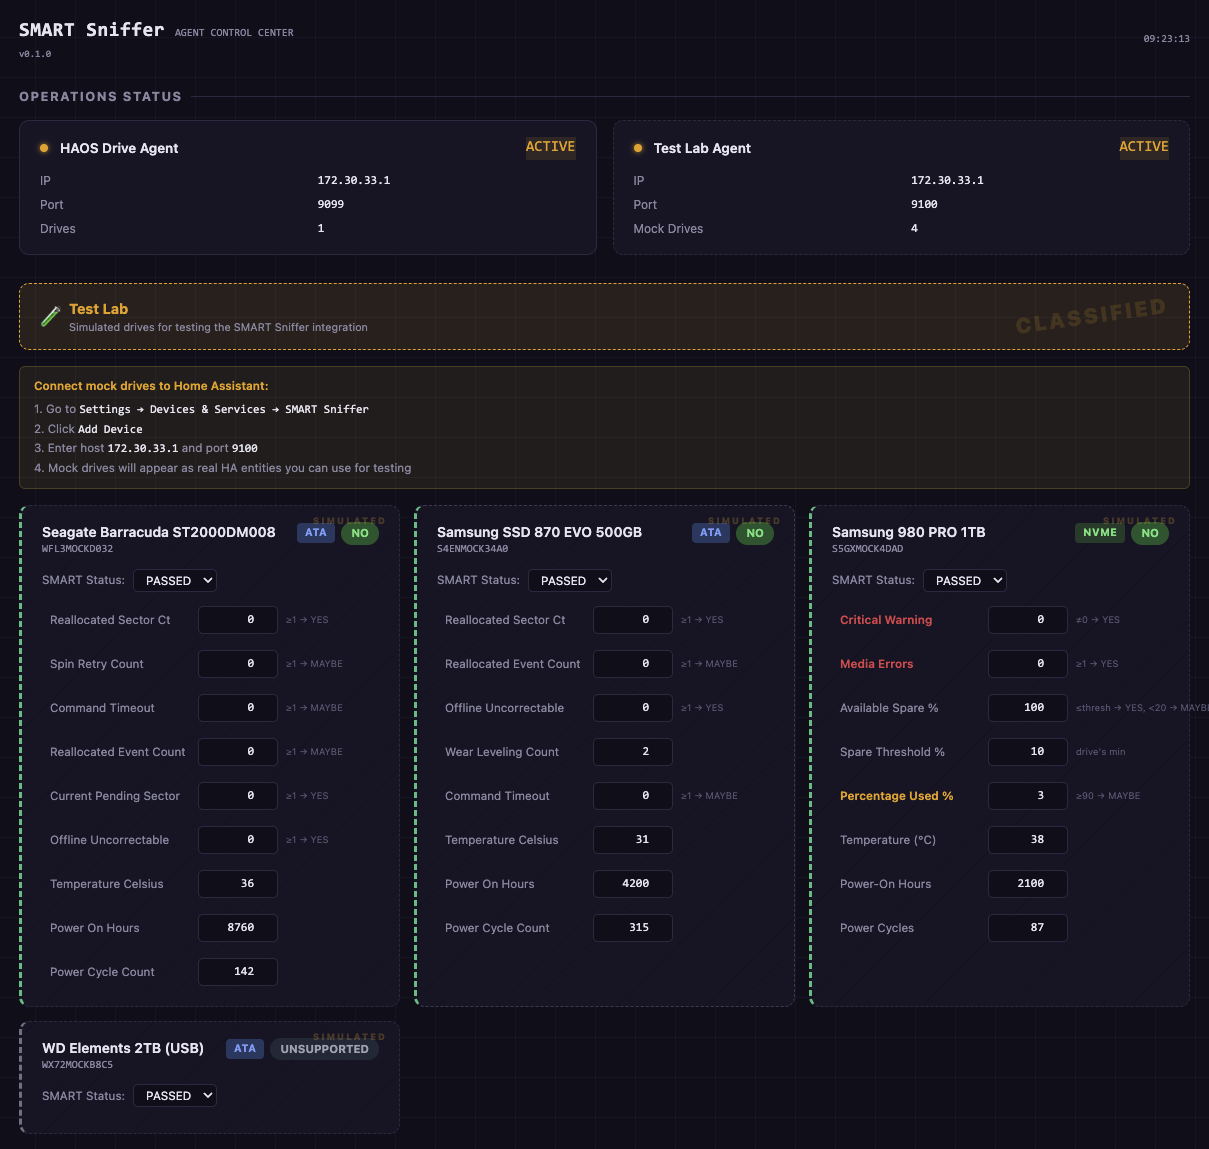
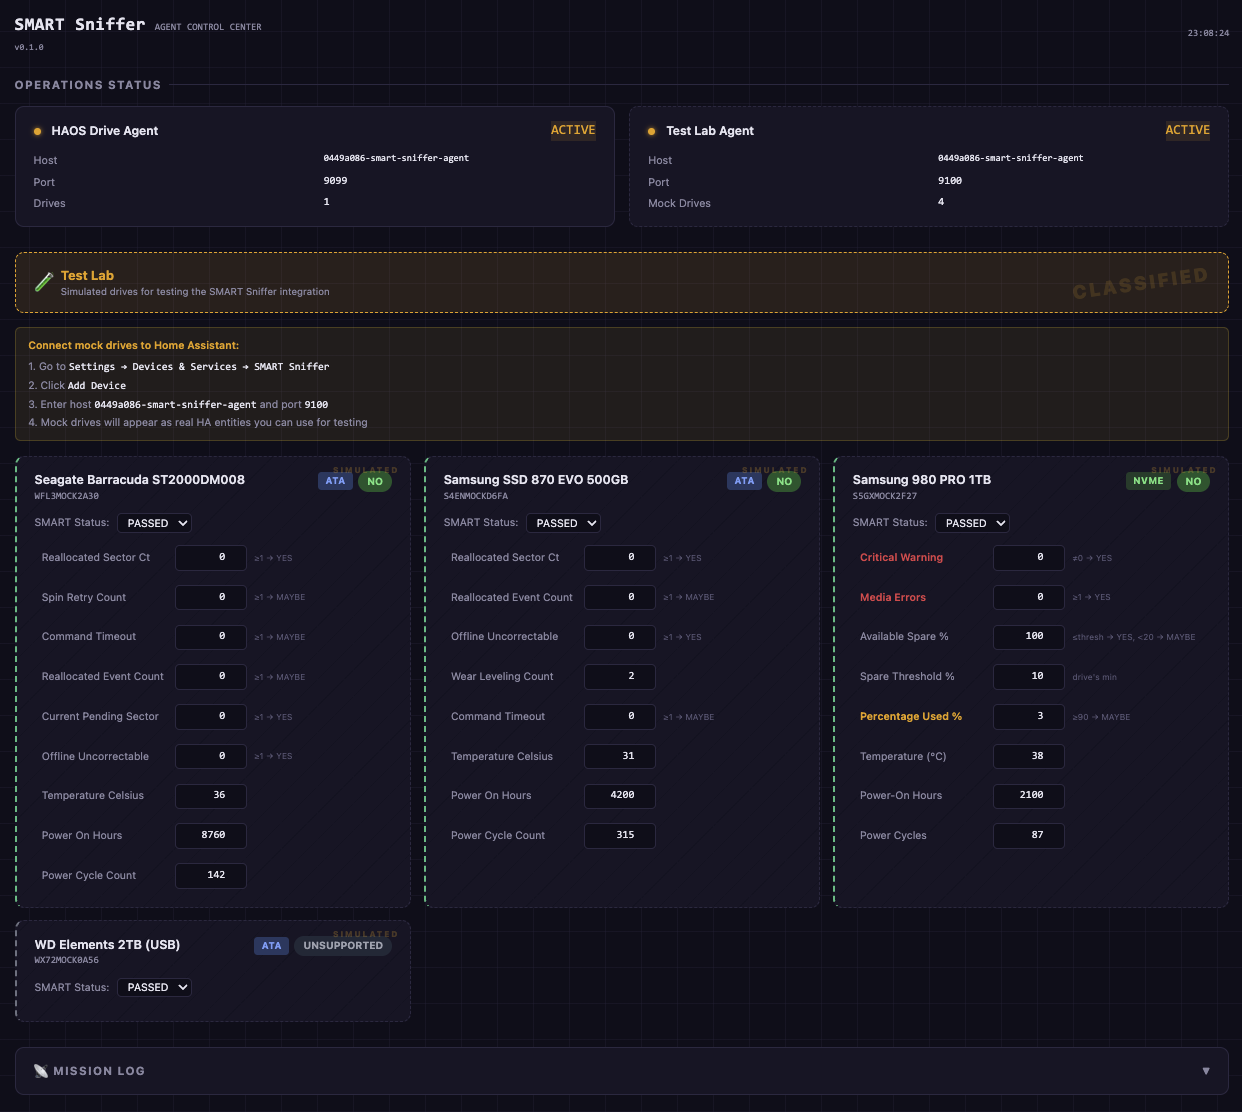
Add screenshots to docs and update Agent Control Center image
- Add protection-mode-disabled-warning, drive-access-blocked-log, and startup-summary-log screenshots to all READMEs and DOCS
- Replace agent_control_center.png
- Fix remaining 172.30.33.1 references in dev docs
- Update AppArmor TODO as completed

diff --git a/smart_sniffer_agent/DOCS.md b/smart_sniffer_agent/DOCS.md
@@ -63,6 +63,10 @@ On some hardware, Home Assistant's Protection Mode restricts the container from 
 
 ![Protection Mode toggle](https://raw.githubusercontent.com/DAB-LABS/smart-sniffer-app/main/smart_sniffer_agent/protection_mode_button.png)
 
+After disabling Protection Mode, you'll see this warning — that's expected:
+
+![Protection Mode disabled warning](https://raw.githubusercontent.com/DAB-LABS/smart-sniffer-app/main/images/protection-mode-disabled-warning.png)
+
 **What does turning off Protection Mode do?** It allows the app's container to access drive device nodes (`/dev/sda`, `/dev/nvme0`, etc.) for read operations. The app does not write to your drives, does not access your network beyond the local HA instance, and does not send data externally.
 
 **Is this safe?** Yes. SMART Sniffer is fully open source — the Go agent, shell scripts, AppArmor profile, and integration are all published on GitHub for anyone to review. We ship a custom AppArmor security profile that documents exactly what the container accesses. The app reads drive data and serves it over a local API. That's all it does.
@@ -73,6 +77,8 @@ On some hardware, Home Assistant's Protection Mode restricts the container from 
 ## Troubleshooting
 
 **Drives show "UNSUPPORTED" or no SMART data** — Check the app logs for "DRIVE ACCESS BLOCKED". If you see it, turn off Protection Mode (see above) and restart the app.
+
+![Drive Access Blocked log](https://raw.githubusercontent.com/DAB-LABS/smart-sniffer-app/main/images/drive-access-blocked-log.png)
 
 **No drives detected** — The app needs the `SYS_RAWIO` capability to read SMART data from host drives. This is configured automatically. Check the app logs if drives aren't appearing.
 

diff --git a/README.md b/README.md
@@ -61,6 +61,8 @@ The app runs `smartctl` inside the HA container to read SMART attributes from th
 
 The agent also advertises itself via mDNS (Zeroconf), so the integration can discover it automatically on most networks.
 
+![Startup Summary](images/startup-summary-log.png)
+
 ## Configuration
 
 | Option | Default | Description |
@@ -118,6 +120,10 @@ If this affects you, go to **Settings → Apps → SMART Sniffer**, switch Prote
 
 ![Protection Mode toggle](https://raw.githubusercontent.com/DAB-LABS/smart-sniffer-app/main/smart_sniffer_agent/protection_mode_button.png)
 
+After disabling Protection Mode, you'll see this warning — that's expected:
+
+![Protection Mode disabled warning](images/protection-mode-disabled-warning.png)
+
 **Our commitment to transparency:**
 
 SMART Sniffer is fully open source. The Go agent, startup scripts, AppArmor profile, and integration code are all published here for anyone to audit. We ship a custom AppArmor security profile that documents exactly what the container accesses. We're committed to requesting only the minimum permissions needed and being upfront about why each one is required.
@@ -125,6 +131,8 @@ SMART Sniffer is fully open source. The Go agent, startup scripts, AppArmor prof
 ## Troubleshooting
 
 **Drives show "UNSUPPORTED" or no SMART data** — Check the app logs for "DRIVE ACCESS BLOCKED". If you see it, turn off Protection Mode (see above) and restart the app.
+
+![Drive Access Blocked log](images/drive-access-blocked-log.png)
 
 **No drives detected** — The app needs `SYS_RAWIO` to read SMART data from host drives. This is configured automatically. Check the app logs if drives aren't appearing.
 

diff --git a/smart_sniffer_agent/README.md b/smart_sniffer_agent/README.md
@@ -81,6 +81,10 @@ If this affects you, go to **Settings → Apps → SMART Sniffer**, switch Prote
 
 ![Protection Mode toggle](https://raw.githubusercontent.com/DAB-LABS/smart-sniffer-app/main/smart_sniffer_agent/protection_mode_button.png)
 
+After disabling Protection Mode, you'll see this warning — that's expected:
+
+![Protection Mode disabled warning](https://raw.githubusercontent.com/DAB-LABS/smart-sniffer-app/main/images/protection-mode-disabled-warning.png)
+
 **Our commitment to transparency:**
 
 SMART Sniffer is fully open source. The Go agent, startup scripts, AppArmor profile, and integration code are all published here for anyone to audit. We ship a custom AppArmor security profile that documents exactly what the container accesses. We're committed to requesting only the minimum permissions needed and being upfront about why each one is required.
@@ -88,6 +92,8 @@ SMART Sniffer is fully open source. The Go agent, startup scripts, AppArmor prof
 ## Troubleshooting
 
 **Drives show "UNSUPPORTED" or no SMART data** — Check the app logs for "DRIVE ACCESS BLOCKED". If you see it, turn off Protection Mode (see above) and restart the app.
+
+![Drive Access Blocked log](https://raw.githubusercontent.com/DAB-LABS/smart-sniffer-app/main/images/drive-access-blocked-log.png)
 
 **No drives detected** — The app needs `SYS_RAWIO` to read SMART data from host drives. This is configured automatically. Check the app logs if drives aren't appearing.
 

diff --git a/TODO.md b/TODO.md
@@ -1,7 +1,7 @@
 # SMART Sniffer App — TODO
 
 ## App Store Submission
-- [ ] **AppArmor profile** — Create `apparmor.txt` for official store submission. Deferred: a custom profile caused `/init: Permission denied` on Production during beta testing. Revisit once the default profile is proven stable across architectures.
+- [x] **AppArmor profile** — Created `apparmor.txt` (v0.2.7). Previous v0.2.0 failure (`/init: Permission denied`) was caused by missing S6-Overlay rules. New profile includes full S6 init system access, targeted drive device access (`/dev/sd*`, `/dev/nvme*`, `/dev/sg*`), and network rules. Modeled on Scrutiny's working profile. Score: 7/8.
 - [ ] Test on armv7 (Raspberry Pi 3/4 32-bit) — pipeline is ready, needs real hardware validation
 - [ ] Publish container images to `ghcr.io/dab-labs/` (uncomment `image:` in config.yaml)
 - [ ] Move from `stage: experimental` to `stage: stable`
